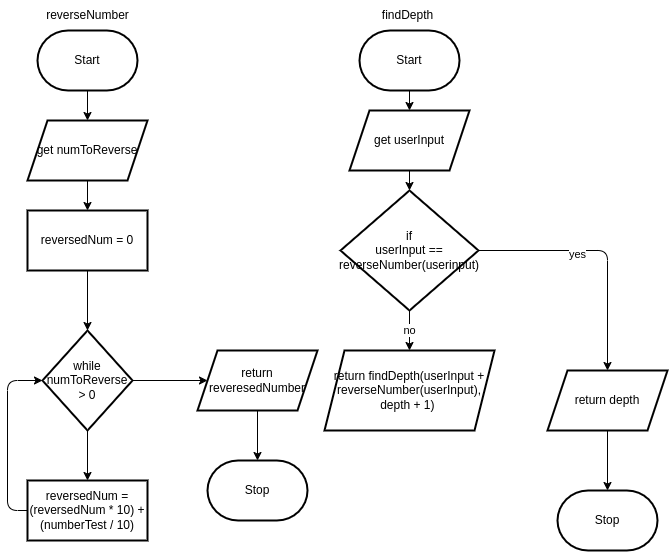
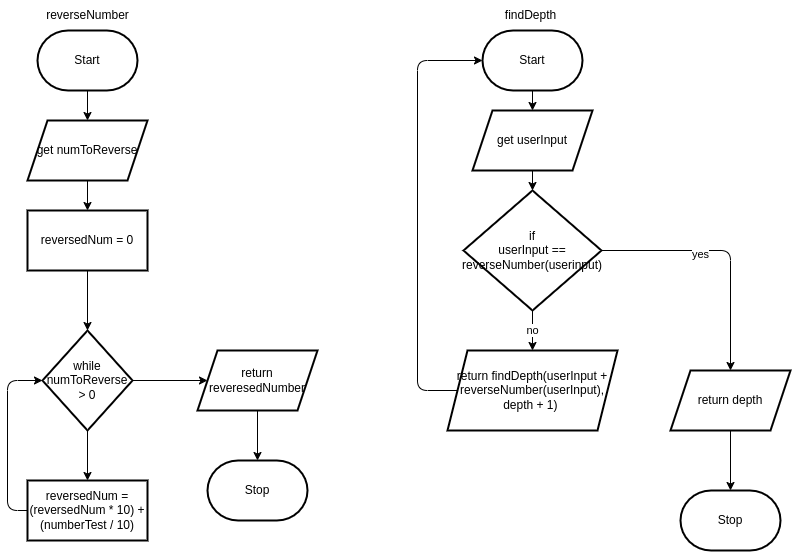
java working (deleted main and restarted lol) + edited flowchart

diff --git a/Assignment4/Palindrome.java b/Assignment4/Palindrome.java
@@ -1,0 +1,72 @@
+/**
+ * This program finds the palindrome depth
+ * of any two digit numbers.
+ *
+ * @author Flynn Rundquist
+ * @version 1.0
+ * @since 2024-05-13
+ */
+
+final class Palindrome {
+    /**
+     * This is the private constructor.
+     *
+     * @throws IllegalStateException when called
+     */
+    private Palindrome() {
+        throw new IllegalStateException("Cannot be instantiated");
+    }
+
+    /**
+     * This is the findDepth method.
+     *
+     * @param depth the numbers depth
+     * @param userInput the user input
+     * @return the depth of the number
+     */
+    private static int findDepth(int userInput, int depth) {
+        final int maxDepth = 1000;
+
+        if (depth >= maxDepth) {
+            return -1;
+        }
+        if (userInput == reverse(userInput)) {
+            return depth;
+        } else {
+            return findDepth(userInput + reverse(userInput), depth + 1);
+        }
+    }
+
+    /**
+     * This is the reverse method.
+     *
+     * @param num the number to reverse
+     * @return the reversed number
+     */
+    private static int reverse(int num) {
+        int reversedNum = 0;
+        final int ten = 10;
+        int tempNum = num;
+
+        while (tempNum > 0) {
+            reversedNum = (reversedNum * ten) + (tempNum % ten);
+            tempNum = tempNum / ten;
+        }
+        return reversedNum;
+    }
+
+    /**
+     * This is the main method.
+     *
+     * @param args the command line arguments
+     */
+    public static void main(String[] args) {
+        final int ten = 10;
+        final int oneHundred = 100;
+
+        for (int counter = ten; counter < oneHundred; counter++) {
+            System.out.println("\nThe depth of " + counter + " is "
+                + findDepth(counter, 0) + ".");
+        }
+    }
+}
